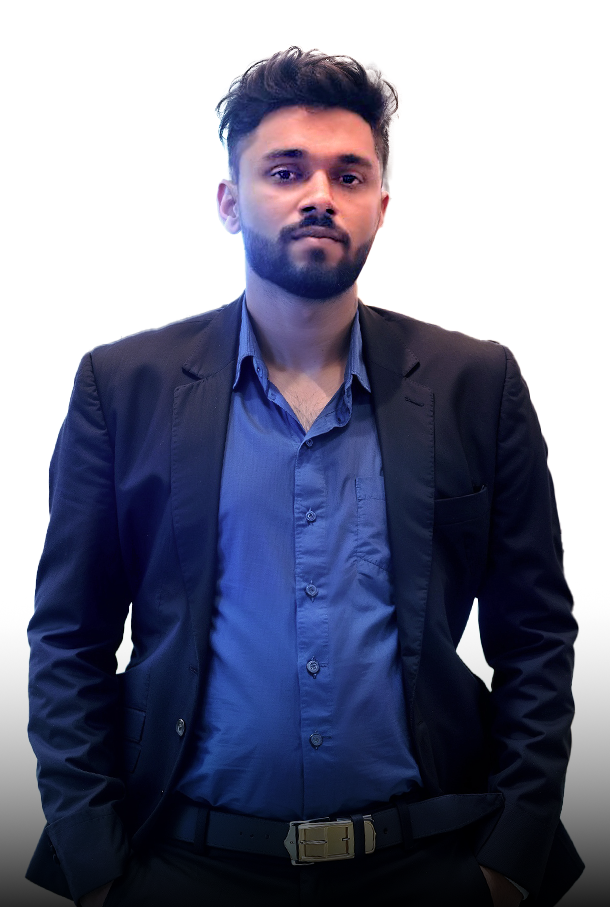
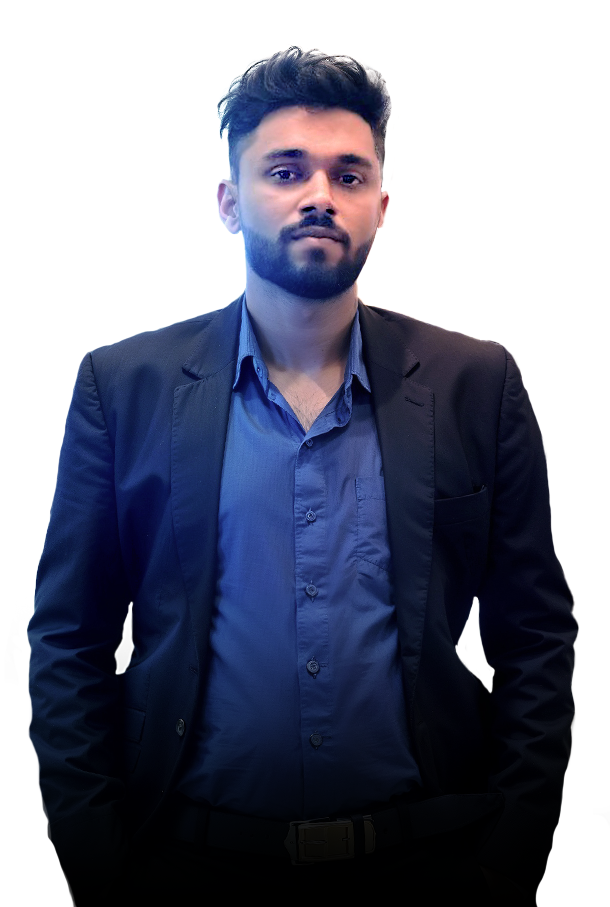
2.0

diff --git a/index.html b/index.html
@@ -168,7 +168,7 @@
 
                     <li class="">
                         <a href="about.html" title="Learn more about us">
-                            Learn More
+                            About
                         </a>
                     </li>
                     
@@ -179,45 +179,6 @@
                         </a>
                     </li>
                 </ul>
-
-                <div class="container-content  d-flex flex-column justify-content-center section-margin">
-                    <div class="nav__info">
-                        <div class="nav-content">
-                            <h5 class="sm-title-block mb-10">Studio</h5>
-                            26-30 New Damietta
-                            El-Mahalla El-Kubra, SK1 66LM
-
-                        </div>
-                        <div class="nav-content mt-30">
-                            <h5 class="sm-title-block mb-10">Contact</h5>
-                            <p class="links over-hidden mb-1">
-                                <a class="link-hover d-block" href="tel:00201004392260"
-                                    data-hover-text="+00 (2)012 3321">+00
-                                    (2)01004392260</a>
-                                <a class="link-hover" href="tel:00201024552406" data-hover-text="+00 (2)012 3321">+00
-                                    (2)01024552406</a>
-                            </p>
-                            <p class="links over-hidden"><a class="link-hover" href="mailto:info@dsngrid.com"
-                                    data-hover-text="info@dsngrid.com">info@dsngrid.com</a></p>
-
-                        </div>
-                    </div>
-                    <div class="nav-social nav-content mt-30">
-                        <div class="nav-social-inner p-relative">
-                            <h5 class="sm-title-block mb-10">Follow us</h5>
-                            <ul style="--dsn-li-name: dsn6;">
-                                <li style="--dsn-li-index: 0;"><a href="#0" target="_blank"
-                                        rel="nofollow noopener noreferrer">Dribbble.</a></li>
-                                <li style="--dsn-li-index: 1;"><a href="#0" target="_blank"
-                                        rel="nofollow noopener noreferrer">Behance.</a></li>
-                                <li style="--dsn-li-index: 2;"><a href="#0" target="_blank"
-                                        rel="nofollow noopener noreferrer">Linkedin.</a></li>
-                                <li style="--dsn-li-index: 3;"><a href="#0" target="_blank"
-                                        rel="nofollow noopener noreferrer">Twitter.</a></li>
-                            </ul>
-                        </div>
-                    </div>
-                </div>
             </nav>
             <div id="navbar_toggle" class="navbar-toggle">
                 <div class="toggle-icon">
@@ -387,7 +348,7 @@
                             data-dsn-option='{"speed":5,"start":"80%","end":"0%","pin":false}'
                             style="transform: translateX(50%)">
 
-                            <div class="services-item background-main has-border-radius">
+                            <div class="services-item background-c has-border-radius">
                                 <span class="sm-p text-upper theme-color">Public</span>
                                 <h3 class="text-upper">Digital Marketing</h3>
                                 <p class="mt-30">Digital Marketing encompasses a wide range of strategies and tactics to connect brands with their audience online.</p>
@@ -419,7 +380,7 @@
                                 </div>
                             </div>
 
-                            <div class="services-item background-main has-border-radius">
+                            <div class="services-item background-c has-border-radius">
                                 <span class="sm-p text-upper theme-color">Public</span>
                                 <h3 class="text-upper">Graphic Designing</h3>
                                 <p class="mt-30">Graphic Design transforms ideas into compelling visuals. Our team designs everything from logos and brochures to complete brand identities, ensuring each creation is visually striking and connects with the audience.</p>
@@ -451,7 +412,7 @@
                                 </div>
                             </div>
 
-                            <div class="services-item background-main has-border-radius">
+                            <div class="services-item background-c has-border-radius">
                                 <span class="sm-p text-upper theme-color">Public</span>
                                 <h3 class="text-upper">Software/Hardware Assistance</h3>
                                 <p class="mt-30">Our Software/Hardware Assistance services provide comprehensive support to keep your technology running smoothly.</p>
@@ -483,7 +444,7 @@
                                 </div>
                             </div>
 
-                            <div class="services-item background-main has-border-radius">
+                            <div class="services-item background-c has-border-radius">
                                 <span class="sm-p text-upper theme-color">Public</span>
                                 <h3 class="text-upper">Web Design</h3>
                                 <p class="mt-30">Web Design is about crafting a memorable online experience. We focus on creating user-friendly, visually engaging, and responsive websites that reflect your brand’s identity.</p>
@@ -521,7 +482,7 @@
                             data-dsn-option='{"speed":3,"start":"106.6%","end":"0%","pin":false,"center":true}'>
 
 
-                            <div class="services-item background-main has-border-radius">
+                            <div class="services-item background-c has-border-radius">
                                 <span class="sm-p text-upper theme-color">Public</span>
                                 <h3 class="text-upper">Architecture</h3>
                                 <p class="mt-30">Elevate your brand’s presence with tailored solutions that resonate
@@ -554,7 +515,7 @@
                                 </div>
                             </div>
 
-                            <div class="services-item background-main has-border-radius">
+                            <div class="services-item background-c has-border-radius">
                                 <span class="sm-p text-upper theme-color">Public</span>
                                 <h3 class="text-upper">Web Development</h3>
                                 <p class="mt-30">Web Development goes beyond design to build a website’s functionality.</p>
@@ -586,7 +547,7 @@
                                 </div>
                             </div>
 
-                            <div class="services-item background-main has-border-radius">
+                            <div class="services-item background-c has-border-radius">
                                 <span class="sm-p text-upper theme-color">Public</span>
                                 <h3 class="text-upper">SEO</h3>
                                 <p class="mt-30">SEO is key to increasing your visibility online. Our SEO services involve optimizing your website and content to rank higher on search engines, attracting more organic traffic.</p>
@@ -618,7 +579,7 @@
                                 </div>
                             </div>
 
-                            <div class="services-item background-main has-border-radius">
+                            <div class="services-item background-c has-border-radius">
                                 <span class="sm-p text-upper theme-color">Public</span>
                                 <h3 class="text-upper">Web Design</h3>
                                 <p class="mt-30">Web Design is about crafting a memorable online experience. We focus on creating user-friendly, visually engaging, and responsive websites that reflect your brand’s identity.</p>

diff --git a/assets/css/style.css b/assets/css/style.css
@@ -63,6 +63,7 @@
 
 :root .v-dark, :root .v-dark-head {
   --bg-color: #111;
+  --bgc : #1dd8805d;
   --assistant-color: #171717;
   --theme-color: #b3de4f;
   --font-color: #d9d9d9;
@@ -2799,7 +2800,7 @@ a:hover, a:active {
   position: absolute;
   left: 50%;
   bottom: 0;
-  transform: translate(-50%, 180px);
+  transform: translate(-50%, 30px);
 }
 @media only screen and (max-width: 991px) {
   .header-personal .box-img {

diff --git a/assets/css/global.css b/assets/css/global.css
@@ -882,6 +882,9 @@ a:focus {
 .background-main, .background-main .background-inner {
   background-color: var(--bg-color);
 }
+.background-c, .background-c .background-inner {
+  background-color: var(--bgc);
+}
 
 .background-section, .background-section .background-inner {
   background-color: var(--assistant-color);
